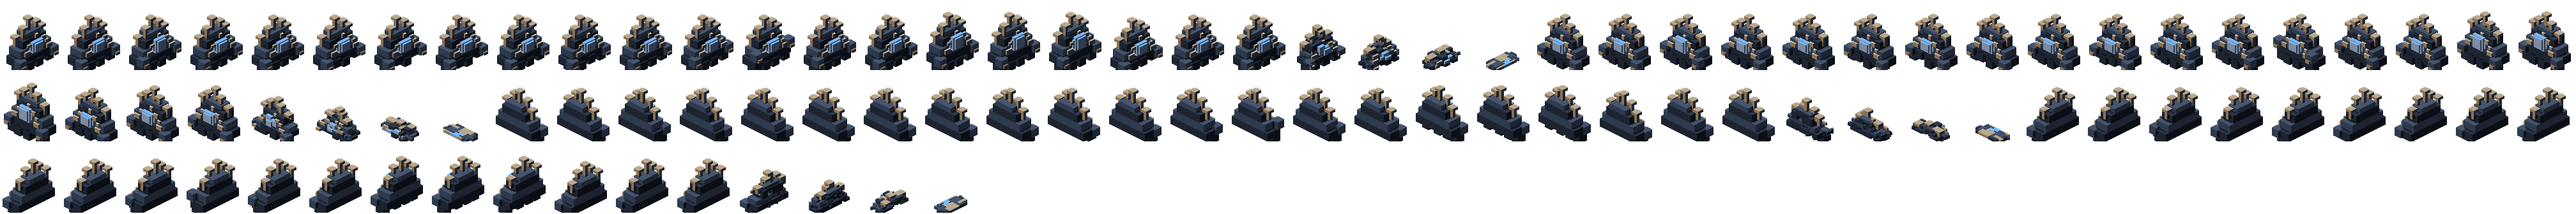
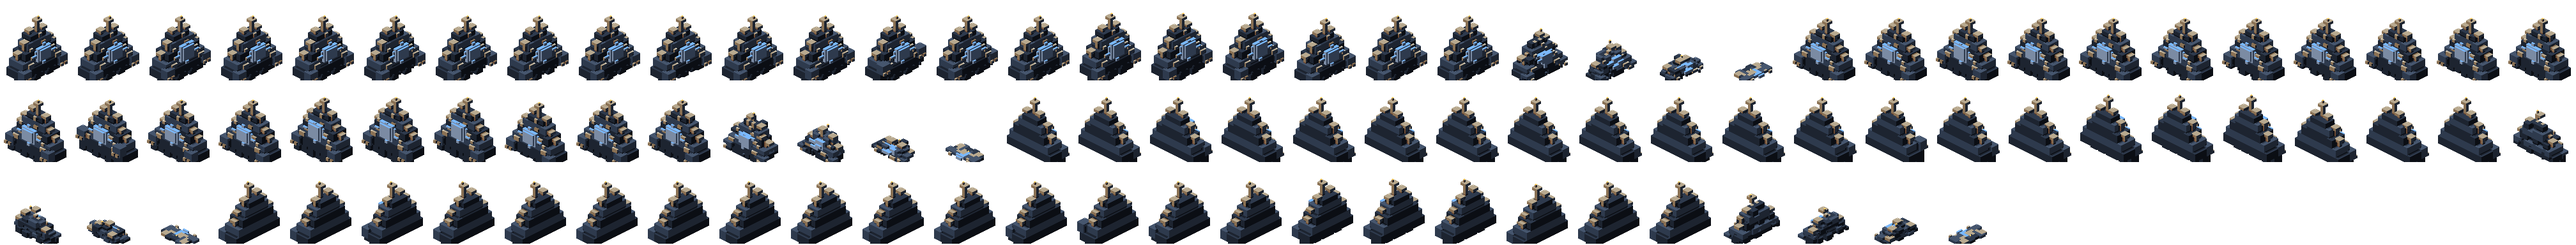
Guardiao em escala de chefe: o unico canvas 112x128, acima do Britador
A cidadela-montanha media quase o mesmo que o gorila (15 unidades de
largura cada, alturas proximas) — chefe final nao pode empatar com o
elite da sala anterior. A hierarquia virou contrato:

- Canvas proprio de 112x128, o unico dessa classe no bestiario, com o
  canonico e a Art Bible atualizados juntos (spec par. 6).
- Macico mais largo (17 unidades) e um andar a mais: cinco estratos
  escuro/medio alternados.
- SETE torres-cogumelo subindo para o pinaculo central com remate
  dourado — a silhueta mais alta do jogo (21 unidades), e so dele.
- Nucleo maior (lajes de 4/5/6 de largura) com quatro rachaduras
  radiais de meio-passo conduzindo a luz pela rocha.
- Seis patas-coluna, garras de dominio com duas unhas cada, franja de
  estalactites na borda da base e mais afloramentos de esclerotico e
  oxido que qualquer inimigo menor.

Complexidade tambem e hierarquia: a contagem de pecas do chefe nao
existe em nenhum outro modelo. Hitbox, footprint e frames intactos;
manifest v6; validador e suites verdes (131 conteudo, 480 cliente).

Claude-Session: https://claude.ai/code/session_01QTbmC7gQdaxJG7QGULyaEf

diff --git a/docs/art/voxelyn-survival-art-bible.md b/docs/art/voxelyn-survival-art-bible.md
@@ -42,7 +42,8 @@ imagens borradas/semi-realistas, personagens com perspectivas diferentes entre s
 | Perspectiva | Isométrica 2:1 (dimétrica), câmera fixa, sem rotação |
 | Personagem padrão (Prospector) | 88×112 px de atlas |
 | Criatura pequena (stalker/spitter/bomber) | 64×64 px de atlas |
-| Criatura grande (bruiser/guardian) | 96×136 / 96×112 px de atlas |
+| Criatura grande (bruiser) | 96×136 px de atlas |
+| Chefe final (guardian) | 112×128 px de atlas — o único canvas desta classe; a hierarquia de tamanho sobre o bruiser é contrato |
 | Elites e chefes (miner/corcel/bispo) | 96×120 / 160×168 / 112×152 px de atlas |
 | Projéteis/impactos | 32×32 px de atlas |
 | Profundidade de cor | Paleta indexada; máx. 20 cores por atlas incluindo outline (`tools/validate.mjs`) |
